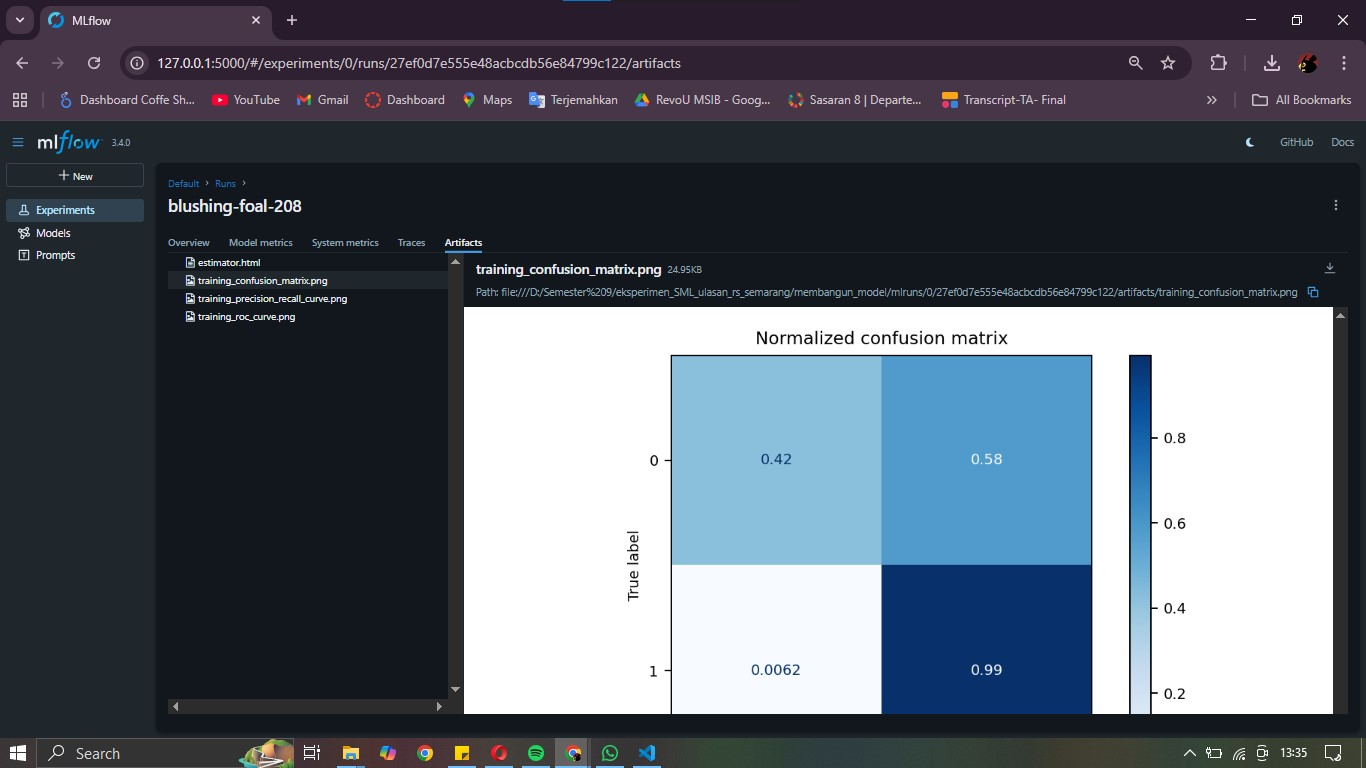
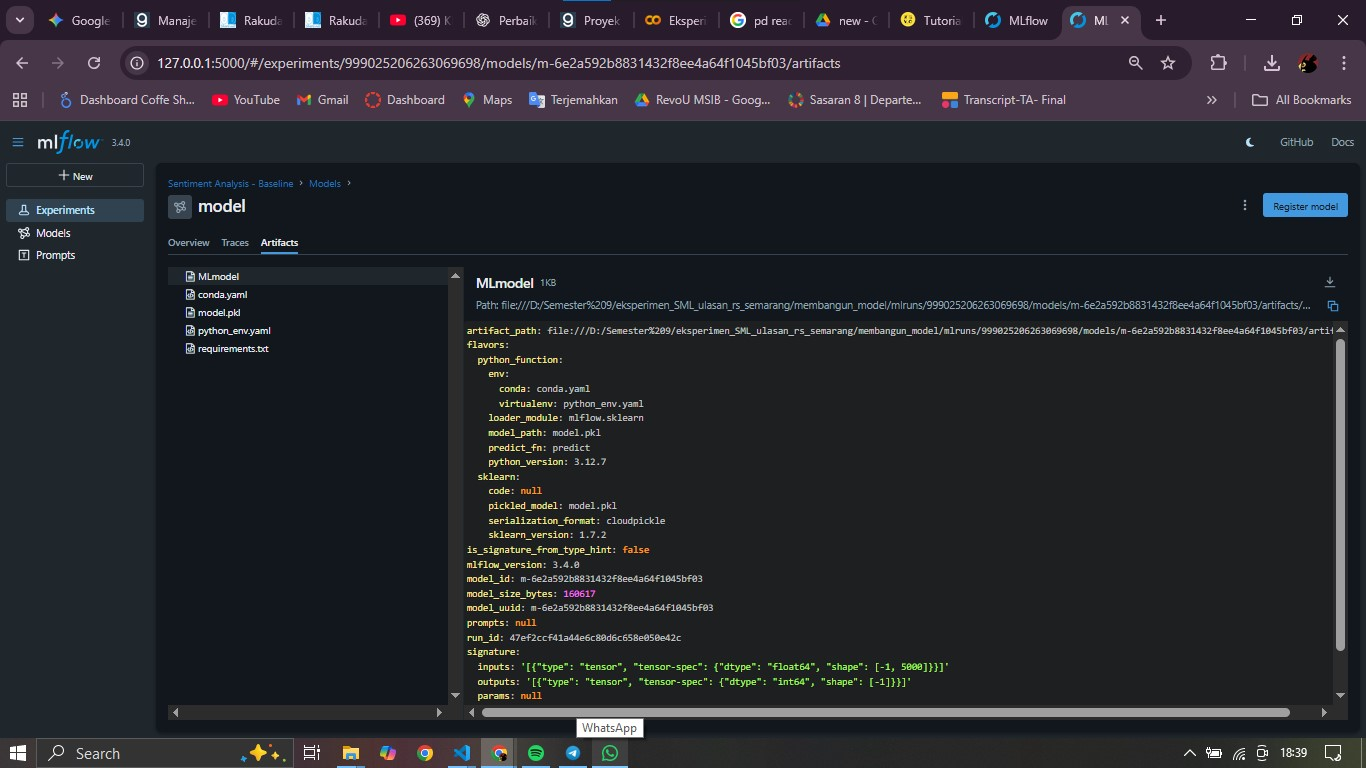
update

diff --git a/membangun_model/modelling_tuning.py b/membangun_model/modelling_tuning.py
@@ -6,26 +6,14 @@ from sklearn.feature_extraction.text import TfidfVectorizer
 from sklearn.naive_bayes import MultinomialNB
 from sklearn.metrics import accuracy_score, precision_score, recall_score, f1_score
 
-def load_kamus(file_path):
-    """Membaca file CSV kamus yang memiliki header ('word', 'weight')."""
-    try:
-        df = pd.read_csv(file_path)
-        if 'word' not in df.columns:
-            print(f"Error: File {file_path} tidak memiliki kolom 'word'.")
-            return set()
-        return set(df['word'].astype(str).tolist())
-    except FileNotFoundError:
-        print(f"Error: File kamus tidak ditemukan di {file_path}")
-        return set()
+# Set nama eksperimen
+mlflow.set_experiment("Sentiment Analysis - Tuning")
 
-# 1. Memuat Kamus & Data (Sama seperti sebelumnya)
-print("Memuat kamus dan data...")
-KAMUS_POSITIF = load_kamus('kamus/positive.csv')
-KAMUS_NEGATIF = load_kamus('kamus/negative.csv')
+# Muat data dan buat label
 df = pd.read_csv('data_processed/dataset_rs_processed.csv')
 df.dropna(subset=['ulasan'], inplace=True)
-
-# 2. Membuat Label Sentimen (Sama seperti sebelumnya)
+KAMUS_POSITIF = set(pd.read_csv('kamus/positive.csv')['word'].astype(str).tolist())
+KAMUS_NEGATIF = set(pd.read_csv('kamus/negative.csv')['word'].astype(str).tolist())
 def label_sentiment(ulasan):
     ulasan_split = str(ulasan).split()
     skor_positif = sum(1 for kata in ulasan_split if kata in KAMUS_POSITIF)
@@ -33,71 +21,46 @@ def label_sentiment(ulasan):
     if skor_positif > skor_negatif: return 1
     elif skor_negatif > skor_positif: return 0
     else: return -1
-
 df['sentiment'] = df['ulasan'].apply(label_sentiment)
 df_final = df[df['sentiment'] != -1].copy()
 X = df_final['ulasan']
 y = df_final['sentiment']
 X_train, X_test, y_train, y_test = train_test_split(X, y, test_size=0.2, random_state=42, stratify=y)
-
-# 3. Vectorization (Sama seperti sebelumnya)
 vectorizer = TfidfVectorizer(max_features=5000)
 X_train_vec = vectorizer.fit_transform(X_train)
 X_test_vec = vectorizer.transform(X_test)
 
-# ==============================================================================
-# 4. HYPERPARAMETER TUNING & MANUAL LOGGING (BAGIAN BARU)
-# ==============================================================================
-print("Memulai hyperparameter tuning dengan GridSearchCV...")
-
 # Definisikan hyperparameter yang akan diuji
 param_grid = {
-    'alpha': [0.1, 0.5, 1.0, 1.5, 2.0],
+    'alpha': [0.1, 0.5, 1.0],
     'fit_prior': [True, False]
 }
 
-# Inisialisasi GridSearchCV
-grid_search = GridSearchCV(
-    estimator=MultinomialNB(),
-    param_grid=param_grid,
-    scoring='f1_macro', # Metrik untuk evaluasi cross-validation
-    cv=5, # 5-fold cross-validation
-    n_jobs=-1 # Gunakan semua core CPU
-)
+grid_search = GridSearchCV(estimator=MultinomialNB(), param_grid=param_grid, scoring='f1_macro', cv=3)
 
 # Mulai MLflow run secara manual
 with mlflow.start_run():
-
-    # Latih model dengan GridSearchCV
     grid_search.fit(X_train_vec, y_train)
 
-    # Dapatkan model dan parameter terbaik
     best_model = grid_search.best_estimator_
     best_params = grid_search.best_params_
     
-    print(f"Parameter terbaik ditemukan: {best_params}")
-
-    # Lakukan prediksi dengan model terbaik
     y_pred = best_model.predict(X_test_vec)
 
-    # Hitung metrik evaluasi final
     accuracy = accuracy_score(y_test, y_pred)
     precision = precision_score(y_test, y_pred, average='macro')
     recall = recall_score(y_test, y_pred, average='macro')
     f1 = f1_score(y_test, y_pred, average='macro')
     
-    print(f"Metrik di data test: Akurasi={accuracy:.4f}, F1-Score={f1:.4f}")
-
-    # Log parameter terbaik secara manual
+    # Logging manual
     mlflow.log_params(best_params)
-
-    # Log metrik final secara manual
     mlflow.log_metric("accuracy", accuracy)
     mlflow.log_metric("precision", precision)
     mlflow.log_metric("recall", recall)
     mlflow.log_metric("f1_score", f1)
     
-    # Log model terbaik secara manual
-    mlflow.sklearn.log_model(best_model, "best_model")
 
-print("\nEksperimen tuning selesai. Jalankan 'mlflow ui' untuk melihat hasilnya.")
+    mlflow.sklearn.log_model(best_model, "best_model")
+    # --------------------------------------------------
+
+print("\nEksperimen tuning selesai.")

diff --git a/membangun_model/modelling.py b/membangun_model/modelling.py
@@ -4,80 +4,45 @@ import mlflow.sklearn
 from sklearn.model_selection import train_test_split
 from sklearn.feature_extraction.text import TfidfVectorizer
 from sklearn.naive_bayes import MultinomialNB
-from sklearn.metrics import accuracy_score
 
-def load_kamus(file_path):
-    """
-    Membaca file CSV kamus yang memiliki header ('word', 'weight')
-    dan mengembalikannya sebagai set untuk pencarian cepat.
-    """
-    try:
-        # Baca CSV dengan header, lalu ambil hanya kolom 'word'
-        df = pd.read_csv(file_path)
-        # Pastikan kolom 'word' ada di file
-        if 'word' not in df.columns:
-            print(f"Error: File {file_path} tidak memiliki kolom 'word'.")
-            return set()
-        return set(df['word'].astype(str).tolist())
-    except FileNotFoundError:
-        print(f"Error: File kamus tidak ditemukan di {file_path}")
-        return set()
 
-# 1. Mengaktifkan MLflow Autologging
+mlflow.set_experiment("Sentiment Analysis - Baseline")
+
+# Aktifkan MLflow Autologging
 mlflow.sklearn.autolog()
 
-# 2. Memuat Kamus Sentimen dari File
-print("Memuat kamus sentimen...")
-KAMUS_POSITIF = load_kamus('kamus/positive.csv')
-KAMUS_NEGATIF = load_kamus('kamus/negative.csv')
-
-# Validasi apakah kamus berhasil dimuat
-if not KAMUS_POSITIF or not KAMUS_NEGATIF:
-    print("Salah satu atau kedua file kamus gagal dimuat. Proses dihentikan.")
-    exit()
-
-print(f"Berhasil memuat {len(KAMUS_POSITIF)} kata positif dan {len(KAMUS_NEGATIF)} kata negatif.")
-
-# 3. Memuat Data yang Sudah Dibersihkan
+# Muat data dan buat label (sama seperti sebelumnya)
 df = pd.read_csv('data_processed/dataset_rs_processed.csv')
 df.dropna(subset=['ulasan'], inplace=True)
 
-# 4. Membuat Label Sentimen
+KAMUS_POSITIF = set(pd.read_csv('kamus/positive.csv')['word'].astype(str).tolist())
+KAMUS_NEGATIF = set(pd.read_csv('kamus/negative.csv')['word'].astype(str).tolist())
+
 def label_sentiment(ulasan):
-    """Memberi skor dan label pada ulasan berdasarkan kamus yang dimuat."""
     ulasan_split = str(ulasan).split()
     skor_positif = sum(1 for kata in ulasan_split if kata in KAMUS_POSITIF)
     skor_negatif = sum(1 for kata in ulasan_split if kata in KAMUS_NEGATIF)
-
-    if skor_positif > skor_negatif:
-        return 1  # Positif
-    elif skor_negatif > skor_positif:
-        return 0  # Negatif
-    else:
-        return -1 # Netral
+    if skor_positif > skor_negatif: return 1
+    elif skor_negatif > skor_positif: return 0
+    else: return -1
 
 df['sentiment'] = df['ulasan'].apply(label_sentiment)
 df_final = df[df['sentiment'] != -1].copy()
 
-print(f"Data setelah pelabelan: {len(df_final)} ulasan (mengabaikan ulasan netral).")
-print("Distribusi sentimen:")
-print(df_final['sentiment'].value_counts())
-
-# 5. Feature Engineering & Pelatihan Model
 X = df_final['ulasan']
 y = df_final['sentiment']
-
 X_train, X_test, y_train, y_test = train_test_split(X, y, test_size=0.2, random_state=42, stratify=y)
 
 vectorizer = TfidfVectorizer(max_features=5000)
 X_train_vec = vectorizer.fit_transform(X_train)
-X_test_vec = vectorizer.transform(X_test)
 
-with mlflow.start_run():
+# Latih model di dalam blok 'with mlflow.start_run()'
+with mlflow.start_run() as run:
+    print(f"Starting run with ID: {run.info.run_id}")
+    
     model = MultinomialNB()
     model.fit(X_train_vec, y_train)
-    y_pred = model.predict(X_test_vec)
-    accuracy = accuracy_score(y_test, y_pred)
-    print(f"Model Naive Bayes dilatih dengan Akurasi: {accuracy:.4f}")
+    
+    print("Model training finished. Autolog should save the artifacts.")
 
-print("\nEksperimen selesai. Jalankan 'mlflow ui' untuk melihat hasilnya.")
+print("\nEksperimen selesai. Periksa hasilnya di MLflow UI.")
